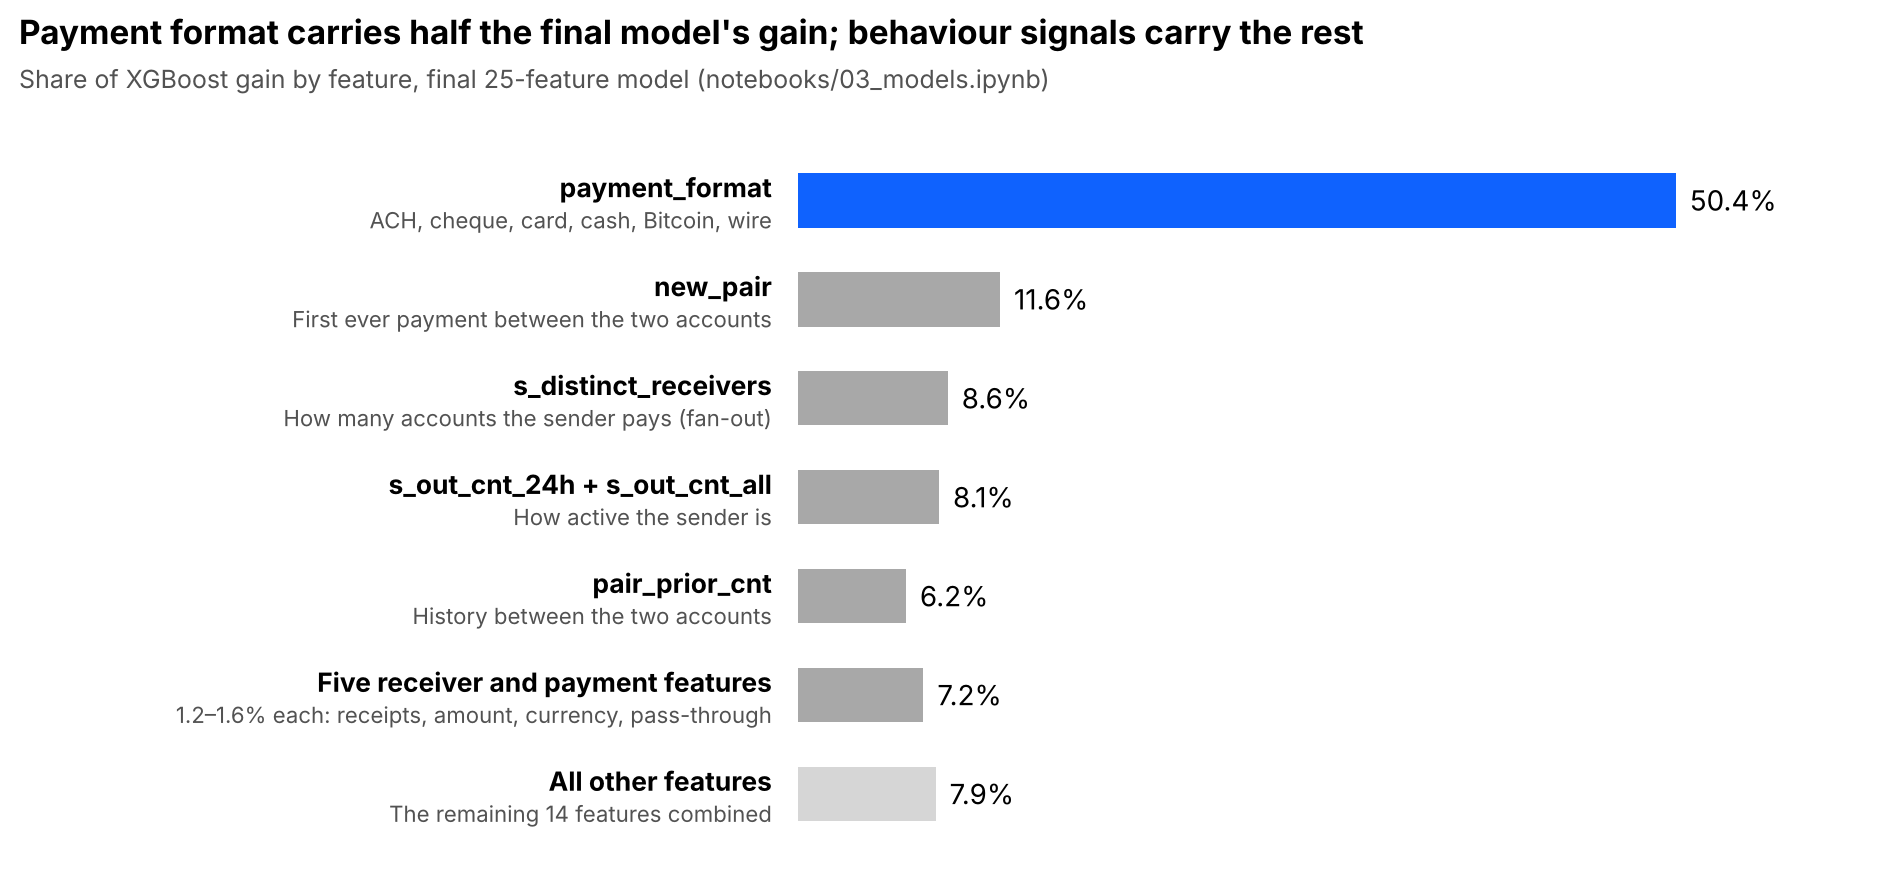
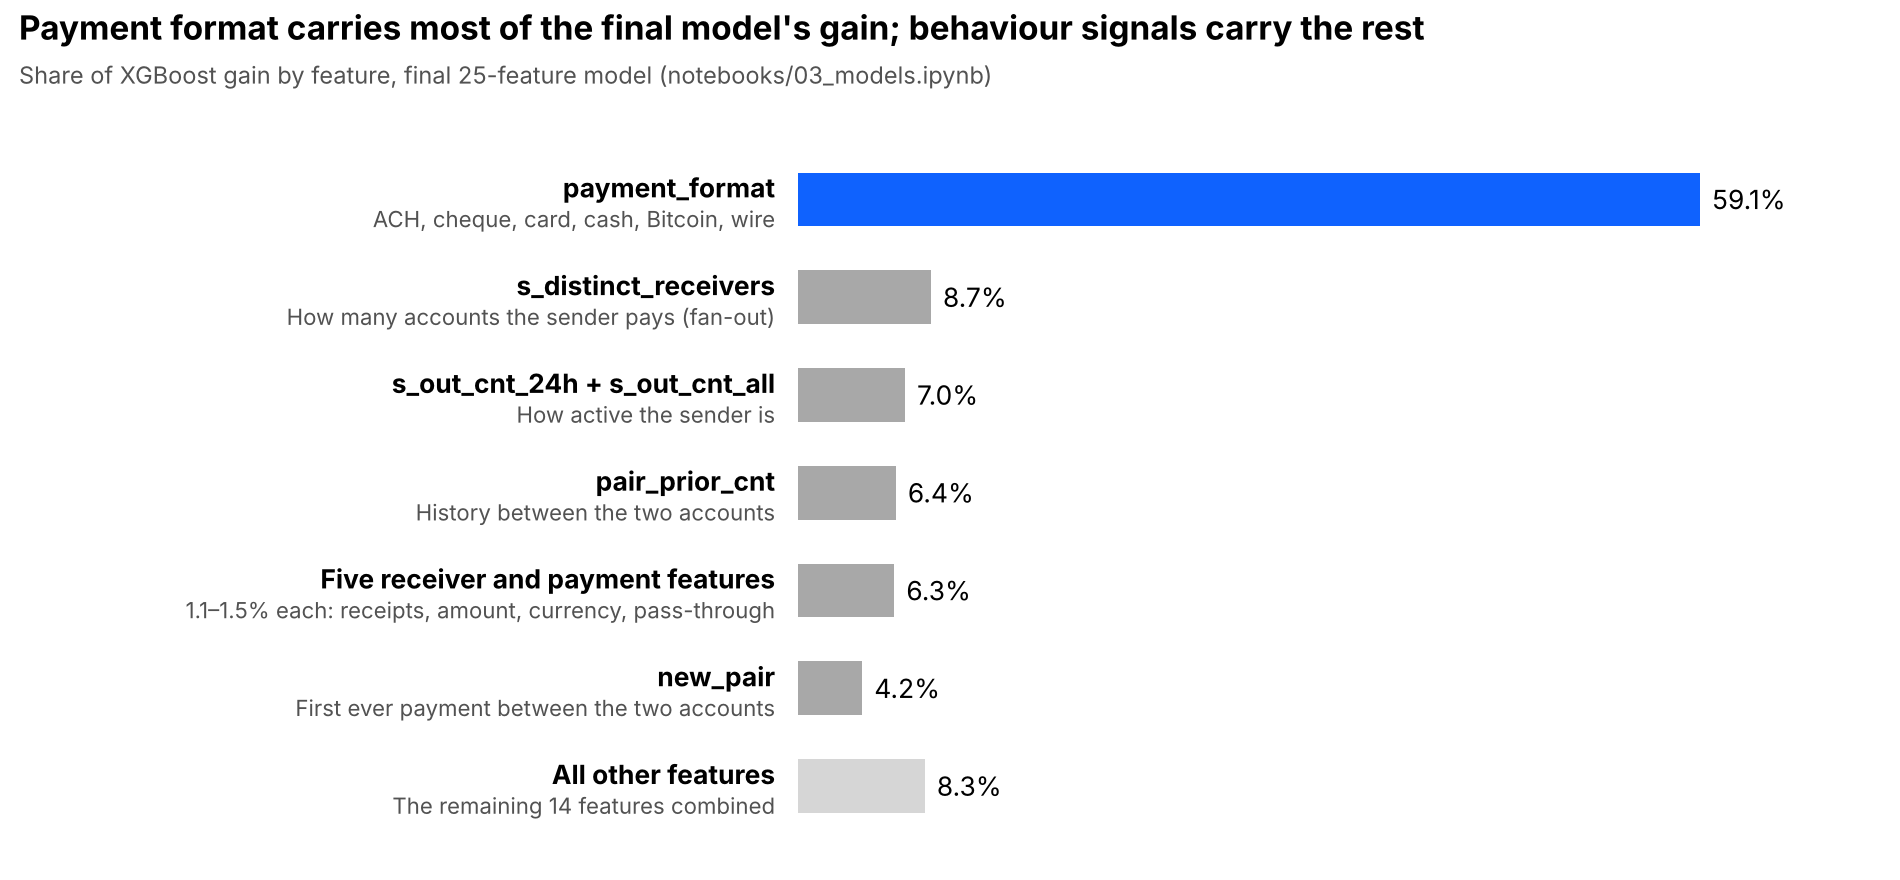
Re-run notebook 03 on LinuxONE with all outputs saved; update feature importance
Test results unchanged (recall@1% 0.695 vs rules 0.257; ACH-only 0.536 vs 0.020).
Feature importance now matches the saved early-stopped model: FINDINGS table and chart updated.

Claude-Session: https://claude.ai/code/session_01Miyp7RcH2QX6Mv1dNCK7Ea

diff --git a/docs/notes/FINDINGS.md b/docs/notes/FINDINGS.md
@@ -277,16 +277,18 @@ Re-scored on **ACH payments only** (106,123 payments, 832 laundering):
 
 ### What the model relies on (feature importance)
 
-Final model (25 features, USD), share of gain from `notebooks/03_models.ipynb`:
+Final model (25 features, USD), share of gain from `notebooks/03_models.ipynb` (re-run on LinuxONE 20 Oct; test results identical):
 
 | Feature | Share | Meaning |
 |---|---|---|
-| `payment_format` | 50.4% | ACH carries most laundering |
-| `new_pair` | 11.6% | First ever payment between these two accounts |
-| `s_distinct_receivers` | 8.6% | How many accounts the sender pays (fan-out) |
-| `pair_prior_cnt` | 6.2% | History between the two accounts |
-| `s_out_cnt_24h` / `s_out_cnt_all` | 8.1% | Sender activity |
-| `r_in_cnt_1h`, `log_amount`, `payment_currency`, `r_passthrough_24h`, `r_distinct_senders` | ~1.2–1.6% each | Receiver behaviour and payment |
+| `payment_format` | 59.1% | ACH carries most laundering |
+| `s_distinct_receivers` | 8.7% | How many accounts the sender pays (fan-out) |
+| `s_out_cnt_24h` / `s_out_cnt_all` | 7.0% | Sender activity |
+| `pair_prior_cnt` | 6.4% | History between the two accounts |
+| `new_pair` | 4.2% | First ever payment between these two accounts |
+| `payment_currency`, `r_in_cnt_1h`, `r_passthrough_24h`, `r_distinct_senders`, `log_amount` | ~1.1–1.5% each | Receiver behaviour and payment |
+
+*The 18 Oct notebook output showed payment_format at 50.4% and new_pair at 11.6% with the same code and test results. The re-run measures importance on the trees kept at the early-stopping point, which is the model the service uses, so the figures above replace it.*
 
 *First version (24 features): payment_format 58.7%.*
 
